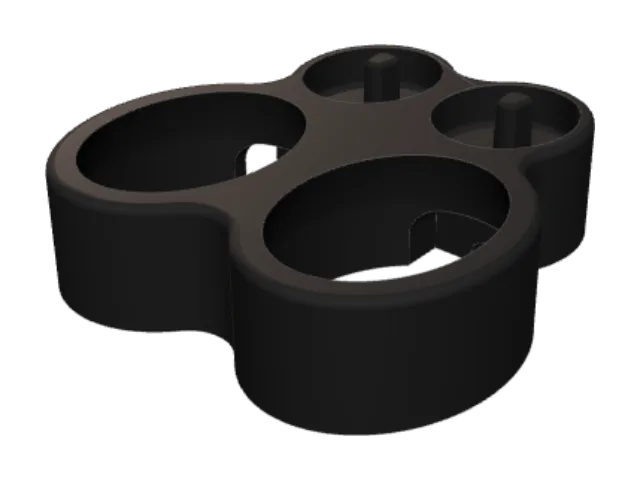
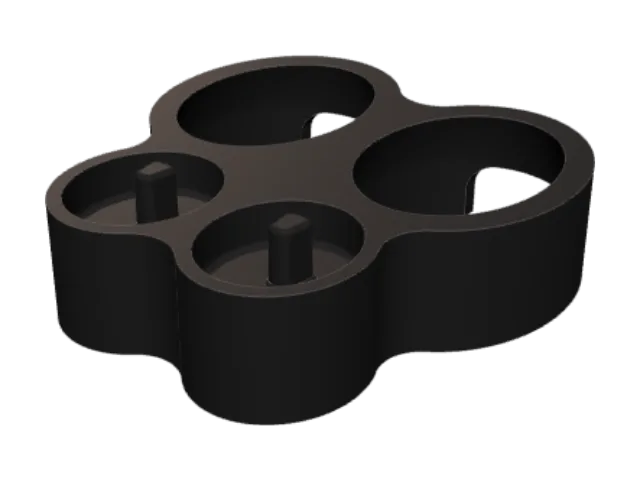
Station brosses à dents : supports de pose devant, chargeurs derrière ; dessus sans pli (#154)
Rangées inversées, câble directement par le bord arrière ; corps en prisme du contour (l'arrondi du dessus retournait des triangles, ligne visible sur l'aperçu).

Claude-Session: https://claude.ai/code/session_013t5AitiiN32HEYSz4SrLrU

Changed region(s): [[0.0625, 0.0938, 0.9375, 0.9062]]

diff --git a/assets/js/modeles/station-brosses-dents.js b/assets/js/modeles/station-brosses-dents.js
@@ -1,18 +1,18 @@
 /* Modèle 3D « station-brosses-dents » — chargé à la demande par viewer3d.js (voir EVARYSTH.viewer3d.define). */
-/* Socle à poser pour chargeurs ronds Oral-B (type 3757) : rangée avant de a logements de chargeur, rangée arrière de b
-   supports de pose (cuvette + picot), centrées, fondues en une pièce (cuvettes réunies par des raccords arrondis).
+/* Socle à poser pour chargeurs ronds Oral-B (type 3757) : rangée avant de b supports de pose (cuvette + picot), rangée
+   arrière de a logements de chargeur, centrées, fondues en une pièce (cuvettes réunies par des raccords arrondis).
    Cotes fonctionnelles reprises des STL « Oral-B toothbrush holder » (1 et 2 chargeurs) :
    - logement du chargeur, traversant (le chargeur repose sur le plan de travail) : ellipse 47,54 × 60,54 mm jusqu'à
      14,5 mm de haut, puis qui suit le galbe du chargeur jusqu'à 41,46 × 54,46 mm à 28,3 mm (haut du socle) ;
-   - sortie de câble à l'arrière du logement : 27 mm de large, 14 mm de haut, prolongée sous le socle par une gorge
-     de 8 × 6 mm jusqu'au bord arrière (le socle reste à plat, câble dessous) ;
+   - sortie de câble à l'arrière du logement : 27 mm de large, 14 mm de haut, ouverte sur le bord arrière (le câble
+     part à plat derrière le socle) ;
    - support de pose : cuvette elliptique 31,24 × 36 mm, 10 mm de profondeur (congé de 1,5 mm au fond), picot de
      6,98 × 8,76 mm (section en goutte, mesurée à mi-hauteur, dépouille de 1°, tête arrondie) qui dépasse de 13 mm du
      fond, décalé de 3 mm vers l'arrière.
    Les STL sont dessinés pour le PLA (jeu 0,2 mm, déjà compté) : logement et cuvette + (jeu − 0,2), picot − (jeu − 0,2).
-   Repère : Y vers le haut (dessous en y = 0), X la largeur, Z vers l'avant ; rangée des chargeurs en z = 0. */
+   Repère : Y vers le haut (dessous en y = 0), X la largeur, Z vers l'avant ; chargeurs en z = 0, supports en z = D. */
 (() => {
-  const H = 28.3, T = 3.2, ECART = 4, PC = 52, PS = 37, RACCORD = 10, ARRONDI = 2;   // ARRONDI : arête du dessus
+  const H = 28.3, T = 3.2, ECART = 4, PC = 52, PS = 37, RACCORD = 10;
   /* [y, demi-largeur] du logement (demi-longueur = + 6,5) ; relevés du STL à 16, 20, 26 et 28,3 mm à moins de 0,05 mm */
   const SOCLE = [[-1, 23.77], [14.5, 23.77], [18, 23.29], [22, 22.5], [25, 21.72], [27, 21.13], [H + 1, 20.42]];
   const LONG = 6.5, CUV = [15.62, 18.0], PROF = 10, CONGE = 1.5, PICOT = 13, DECALE = 3.0;
@@ -37,12 +37,12 @@
     for (const [x1, z1] of p1) for (const [x2, z2] of p2) d = Math.min(d, Math.hypot(x1 - x2, z1 - z2));
     return d;
   };
-  /* Disposition : chargeurs en z = 0, supports en z = −D (D minimal pour garder ECART entre logement et cuvette) */
+  /* Disposition : chargeurs en z = 0, supports devant en z = D (D minimal pour garder ECART entre logement et cuvette) */
   const disposition = (a, b, jeu) => {
     a = Math.round(a); b = Math.round(b);
     const dj = (jeu - 0.2) / 2, As = SOCLE[0][1] + dj, Bs = As + LONG, Ac = CUV[0] + dj, Bc = CUV[1] + dj;
     const xc = Array.from({ length: a }, (_, i) => (i - (a - 1) / 2) * PC), xs = Array.from({ length: b }, (_, j) => (j - (b - 1) / 2) * PS);
-    const ok = D => xc.every(x1 => xs.every(x2 => ecart([x1, 0, As, Bs], [x2, -D, Ac, Bc]) >= ECART));
+    const ok = D => xc.every(x1 => xs.every(x2 => ecart([x1, 0, As, Bs], [x2, D, Ac, Bc]) >= ECART));
     let lo = Bs, hi = Bs + Bc + ECART + 1;
     for (let i = 0; i < 20; i++) { const mid = (lo + hi) / 2; if (ok(mid)) hi = mid; else lo = mid; }
     return { xc, xs, D: Math.round(hi * 100) / 100, dj, As, Bs, Ac, Bc };
@@ -55,34 +55,15 @@
     const hull = pts => k.solid(Manifold.hull(pts)).mf;
     const anneau = (pts2, y, f) => pts2.map(([u, v]) => [...f(u, v), y]).map(([x, z, yy]) => [x, yy, z]);
 
-    /* Corps : union des empreintes (logements et cuvettes + paroi), raccords concaves, arête du dessus arrondie.
-       Contour décoratif : 96 segments par ellipse. Profil 2D en (x, −z) ; l'extrusion est posée par la rotation propre
-       (x, y, z) → (x, z, −y), chaque sommet du haut rentré le long de sa bissectrice (quart de rond de rayon ARRONDI). */
+    /* Corps : prisme de l'union des empreintes (logements et cuvettes + paroi), raccords concaves de RACCORD.
+       Contour décoratif : 96 segments par ellipse. Profil 2D en (x, −z), dressé par rotation de −90° autour de X. */
     const own = mf => k.solid(mf).mf;
-    const empreintes = [...xc.map(x => ell(x, 0, L.As + T, Bs + T, 96)), ...xs.map(x => ell(x, -D, Ac + T, Bc + T, 96))]
+    const empreintes = [...xc.map(x => ell(x, 0, L.As + T, Bs + T, 96)), ...xs.map(x => ell(x, D, Ac + T, Bc + T, 96))]
       .map(p => k.section(p.map(([x, z]) => [x, -z])).cs);
     const contour = k.conge(sec(CrossSection.union(empreintes)), RACCORD, { convexes: false });
-    const rentre = new Map(), cle = (x, y) => Math.round(x * 1e4) + "," + Math.round(y * 1e4);
-    for (const p of contour.polygons()) p.forEach(([x, y], i) => {
-      const [px, py] = p[(i + p.length - 1) % p.length], [nx, ny] = p[(i + 1) % p.length];
-      const l1 = Math.hypot(x - px, y - py) || 1, l2 = Math.hypot(nx - x, ny - y) || 1;
-      const n1 = [-(y - py) / l1, (x - px) / l1], n2 = [-(ny - y) / l2, (nx - x) / l2];
-      const bx = n1[0] + n2[0], by = n1[1] + n2[1], c = (bx * n1[0] + by * n1[1]) / (Math.hypot(bx, by) || 1);
-      const f = 1 / (Math.hypot(bx, by) || 1) / Math.max(c, 0.5);
-      rentre.set(cle(x, y), [bx * f, by * f]);
-    });
-    const niv = [[0, 0], [H - ARRONDI, 0], ...Array.from({ length: 4 }, (_, i) => {
-      const p = (i + 1) / 4 * Math.PI / 2;
-      return [H - ARRONDI + ARRONDI * Math.sin(p), ARRONDI * (1 - Math.cos(p))];
-    })];
-    const corps = own(own(contour.cs.extrude(niv.length - 1, niv.length - 2, 0, [1, 1], false)).warpBatch((v, count) => {
-      for (let i = 0; i < count; i++) {
-        const x = v[3 * i], y = v[3 * i + 1], [h, o] = niv[Math.round(v[3 * i + 2])], d = rentre.get(cle(x, y)) || [0, 0];
-        v[3 * i] = x + d[0] * o; v[3 * i + 1] = h; v[3 * i + 2] = -(y + d[1] * o);
-      }
-    }));
+    const corps = own(contour.cs.extrude(H, 0, 0, [1, 1], false).rotate([-90, 0, 0]));
 
-    /* Creux : logements (enveloppe convexe des sections du galbe), sortie de câble, gorge, cuvettes */
+    /* Creux : logements (enveloppe convexe des sections du galbe), sortie de câble vers l'arrière, cuvettes */
     const creux = [];
     for (const x of xc) {
       creux.push(hull(SOCLE.flatMap(([y, A]) => anneau(ell(0, 0, A + dj, A + dj + LONG), y, (u, v) => [x + u, v]))));
@@ -93,13 +74,8 @@
         const t = Math.PI / 2 + i / 8 * Math.PI / 2;
         return [-13.5 + r + r * Math.cos(t), 14 - r + r * Math.sin(t)];
       })];
-      const Ls = Bs + T + 1.5, Lg = D + Bc + T + 12;
+      const Ls = Bs + T + 15;
       creux.push(k.ext(sortie, Ls).translate(x, 0, -Ls / 2).mf);
-      const gorge = [[-4, -1], [4, -1], ...Array.from({ length: 17 }, (_, i) => {
-        const t = i / 16 * Math.PI;
-        return [4 * Math.cos(t), 2 + 4 * Math.sin(t)];
-      })];
-      creux.push(k.ext(gorge, Lg).translate(x, 0, -Lg / 2).mf);
     }
     const fond = H - PROF;
     for (const x of xs) {
@@ -108,7 +84,7 @@
         return [fond + CONGE * (1 - Math.cos(p)), -CONGE + CONGE * Math.sin(p)];
       });
       niv.push([H + 1, 0]);
-      creux.push(hull(niv.flatMap(([y, o]) => anneau(ell(0, 0, Ac + o, Bc + o), y, (u, v) => [x + u, -D + v]))));
+      creux.push(hull(niv.flatMap(([y, o]) => anneau(ell(0, 0, Ac + o, Bc + o), y, (u, v) => [x + u, D + v]))));
     }
 
     /* Picots : section relevée, dépouille, tête arrondie (r 1,2), petit congé au pied */
@@ -117,7 +93,7 @@
     const dAt = t => dp + DEPOUILLE * (MI - t);
     const picots = [];
     for (const x of xs) {
-      const pose = (u, v) => [x + u, -D - DECALE - v];
+      const pose = (u, v) => [x + u, D - DECALE - v];
       const niv = [[-0.5, dAt(0)], [0, dAt(0)], [tete, dAt(tete)],
         ...Array.from({ length: 6 }, (_, i) => {
           const p = (i + 1) / 6 * Math.PI / 2;
@@ -132,14 +108,14 @@
     return k.join(k.solid(piece));
   }), {
     solides: 1,
-    /* Repère de construction : dessous en y = 0, logements en z = 0 (x = xc), supports en z = −D (x = xs) */
+    /* Repère de construction : dessous en y = 0, logements en z = 0 (x = xc), supports en z = D (x = xs) */
     cotes: ({ a, b, jeu }) => {
       const { xc, xs, D } = disposition(a, b, jeu), j = jeu - 0.2;
       return [
         { nom: "logement du chargeur, largeur à la base (+ jeu)", axe: "y", en: [xc[0], 7, 0], mesure: "largeur", selon: "x", attendu: 47.54 + j },
         { nom: "logement du chargeur, longueur à 22 mm (+ jeu)", axe: "y", en: [xc[0], 22, 0], mesure: "largeur", selon: "z", attendu: 58.0 + j },
-        { nom: "picot de pose, largeur (− jeu)", axe: "y", en: [xs[0], H - PROF + MI, -D - DECALE - 2.35], mesure: "largeur", selon: "x", attendu: 6.98 - j },
-        { nom: "picot de pose, longueur (− jeu)", axe: "y", en: [xs[0], H - PROF + MI, -D - DECALE], mesure: "largeur", selon: "z", attendu: 8.76 - j }];
+        { nom: "picot de pose, largeur (− jeu)", axe: "y", en: [xs[0], H - PROF + MI, D - DECALE - 2.35], mesure: "largeur", selon: "x", attendu: 6.98 - j },
+        { nom: "picot de pose, longueur (− jeu)", axe: "y", en: [xs[0], H - PROF + MI, D - DECALE], mesure: "largeur", selon: "z", attendu: 8.76 - j }];
     }
   });
 })();

diff --git a/produits/station-brosses-dents/index.html b/produits/station-brosses-dents/index.html
@@ -11,13 +11,13 @@
   <link rel="apple-touch-icon" href="/assets/icons/apple-touch-icon.png">
   <meta name="theme-color" content="#F4F1EA">
   <title>Evarysth</title>
-  <meta name="description" content="Le chargeur bien calé, les autres brosses debout juste derrière. Dès 14 €, en taille standard ou à vos cotes.">
+  <meta name="description" content="Les brosses debout devant, le chargeur bien calé juste derrière. Dès 14 €, en taille standard ou à vos cotes.">
   <link rel="canonical" href="https://evarysth.fr/produits/station-brosses-dents/">
   <meta property="og:type" content="product">
   <meta property="og:site_name" content="Evarysth">
   <meta property="og:locale" content="fr_FR">
   <meta property="og:title" content="Station brosses à dents — Evarysth">
-  <meta property="og:description" content="Le chargeur bien calé, les autres brosses debout juste derrière. Dès 14 €, sur-mesure possible.">
+  <meta property="og:description" content="Les brosses debout devant, le chargeur bien calé juste derrière. Dès 14 €, sur-mesure possible.">
   <meta property="og:url" content="https://evarysth.fr/produits/station-brosses-dents/">
   <meta property="og:image" content="https://evarysth.fr/assets/og/station-brosses-dents.jpg">
   <meta property="og:image:width" content="1200">
@@ -26,7 +26,7 @@
   <meta property="product:price:amount" content="14.00">
   <meta property="product:price:currency" content="EUR">
   <meta name="twitter:card" content="summary_large_image">
-  <script type="application/ld+json">[{"@context":"https://schema.org","@type":"Product","name":"Station brosses à dents","description":"Le chargeur bien calé, les autres brosses debout juste derrière. Un socle à poser près du lavabo, compatible chargeurs Oral-B ronds (type 3757, gammes Pro et Vitality ; pas les chargeurs iO). À l'avant, chaque chargeur s'emboîte dans son logement, posé sur le plan de travail, et son câble file par une encoche puis une gorge sous le socle : la station reste bien à plat. À l'arrière, une cuvette et un picot gardent debout chaque brosse qui attend son tour. Choisissez le nombre de chargeurs et de supports de pose. Produit indépendant, non affilié à Oral-B ; chargeurs et brosses non fournis.","sku":"station-brosses-dents","category":"Meubles & Rangement","image":["https://evarysth.fr/assets/og/station-brosses-dents.jpg"],"brand":{"@type":"Brand","name":"Evarysth"},"offers":{"@type":"AggregateOffer","url":"https://evarysth.fr/produits/station-brosses-dents/","priceCurrency":"EUR","offerCount":3,"lowPrice":"14.00","highPrice":"20.00"}},{"@context":"https://schema.org","@type":"BreadcrumbList","itemListElement":[{"@type":"ListItem","position":1,"name":"Catalogue","item":"https://evarysth.fr/catalogue/"},{"@type":"ListItem","position":2,"name":"Meubles & Rangement","item":"https://evarysth.fr/univers/meubles/"},{"@type":"ListItem","position":3,"name":"Station brosses à dents","item":"https://evarysth.fr/produits/station-brosses-dents/"}]}]</script>
+  <script type="application/ld+json">[{"@context":"https://schema.org","@type":"Product","name":"Station brosses à dents","description":"Les brosses debout devant, le chargeur bien calé juste derrière. Un socle à poser près du lavabo, compatible chargeurs Oral-B ronds (type 3757, gammes Pro et Vitality ; pas les chargeurs iO). À l'avant, une cuvette et un picot gardent debout chaque brosse, à portée de main. À l'arrière, chaque chargeur s'emboîte dans son logement, posé sur le plan de travail, et son câble sort par une encoche à l'arrière : la station reste bien à plat. Pour recharger une brosse, posez-la derrière. Choisissez le nombre de chargeurs et de supports de pose. Produit indépendant, non affilié à Oral-B ; chargeurs et brosses non fournis.","sku":"station-brosses-dents","category":"Meubles & Rangement","image":["https://evarysth.fr/assets/og/station-brosses-dents.jpg"],"brand":{"@type":"Brand","name":"Evarysth"},"offers":{"@type":"AggregateOffer","url":"https://evarysth.fr/produits/station-brosses-dents/","priceCurrency":"EUR","offerCount":3,"lowPrice":"14.00","highPrice":"20.00"}},{"@context":"https://schema.org","@type":"BreadcrumbList","itemListElement":[{"@type":"ListItem","position":1,"name":"Catalogue","item":"https://evarysth.fr/catalogue/"},{"@type":"ListItem","position":2,"name":"Meubles & Rangement","item":"https://evarysth.fr/univers/meubles/"},{"@type":"ListItem","position":3,"name":"Station brosses à dents","item":"https://evarysth.fr/produits/station-brosses-dents/"}]}]</script>
   <link rel="preconnect" href="https://fonts.googleapis.com">
   <link rel="preconnect" href="https://fonts.gstatic.com" crossorigin>
   <link href="https://fonts.googleapis.com/css2?family=Bricolage+Grotesque:opsz,wght@12..96,600;12..96,700;12..96,800&family=Inter:wght@400;500;600;700&family=JetBrains+Mono:wght@400;500&display=swap" rel="stylesheet">
@@ -86,8 +86,8 @@
     <nav class="crumbs" aria-label="Fil d'Ariane"><a href="catalogue/">Catalogue</a> / <a href="univers/meubles/">Meubles &amp; Rangement</a> / <span>Station brosses à dents</span></nav>
     <article class="pdp-static">
       <h1>Station brosses à dents</h1>
-      <p>Le chargeur bien calé, les autres brosses debout juste derrière.</p>
-      <p>Un socle à poser près du lavabo, compatible chargeurs Oral-B ronds (type 3757, gammes Pro et Vitality ; pas les chargeurs iO). À l'avant, chaque chargeur s'emboîte dans son logement, posé sur le plan de travail, et son câble file par une encoche puis une gorge sous le socle : la station reste bien à plat. À l'arrière, une cuvette et un picot gardent debout chaque brosse qui attend son tour. Choisissez le nombre de chargeurs et de supports de pose. Produit indépendant, non affilié à Oral-B ; chargeurs et brosses non fournis.</p>
+      <p>Les brosses debout devant, le chargeur bien calé juste derrière.</p>
+      <p>Un socle à poser près du lavabo, compatible chargeurs Oral-B ronds (type 3757, gammes Pro et Vitality ; pas les chargeurs iO). À l'avant, une cuvette et un picot gardent debout chaque brosse, à portée de main. À l'arrière, chaque chargeur s'emboîte dans son logement, posé sur le plan de travail, et son câble sort par une encoche à l'arrière : la station reste bien à plat. Pour recharger une brosse, posez-la derrière. Choisissez le nombre de chargeurs et de supports de pose. Produit indépendant, non affilié à Oral-B ; chargeurs et brosses non fournis.</p>
       <p>Dès 14 €. En taille standard (configuration : Solo 1 chargeur, 1 support, Duo 2 chargeurs, 2 supports, Famille 2 chargeurs, 4 supports), ou sur-mesure à vos cotes.</p>
       
       <noscript><p>Activez JavaScript pour voir la pièce en 3D, régler vos cotes et commander.</p></noscript>

diff --git a/catalogue/index.html b/catalogue/index.html
@@ -88,7 +88,7 @@
     <div id="catalogue-root">
      <section class="row-block"><h2><a href="univers/balcon/">Balcon &amp; Extérieur</a></h2><p>Tout se clipse sur votre garde-corps. Zéro trou, zéro souci avec le propriétaire.</p><ul class="list-static"><li><a href="produits/crochet-balcon/">Crochet de balcon</a> — Pour suspendre lanterne, plante ou serviette. <span>Dès 13 €</span></li><li><a href="produits/tablette-rambarde/">Tablette café de balcon</a> — Une petite table pour le café, posée sur la rambarde. <span>Dès 23 €</span></li></ul></section>
      <section class="row-block"><h2><a href="univers/bureau/">Bureau, Tech &amp; Auto</a></h2><p>Câbles, casques, affaires de voiture : chaque chose à sa place, à portée de main.</p><ul class="list-static"><li><a href="produits/passe-cable/">Passe-câble de bureau</a> — Un trou propre pour faire passer les câbles. <span>Dès 12 €</span></li><li><a href="produits/crochet-appui-tete/">Crochet d'appui-tête multifonction</a> — La tablette, le sac et la gourde rangés derrière le siège avant. <span>Dès 17 €</span></li><li><a href="produits/crochet-appui-tete-double/">Crochet d'appui-tête à deux tiges</a> — Se pose sur les deux tiges, sans sortir l'appui-tête. <span>Dès 17 €</span></li><li><a href="produits/support-casque-treillis/">Support casque Treillis</a> — Un vrai présentoir pour votre casque, léger comme une dentelle. <span>Dès 42 €</span></li></ul></section>
-     <section class="row-block"><h2><a href="univers/meubles/">Meubles &amp; Rangement</a></h2><p>Les petites pièces qui manquaient à vos meubles du commerce.</p><ul class="list-static"><li><a href="produits/boite-rugged/">Boîte robuste à loquets</a> — Une boîte qui encaisse les chocs, aux dimensions de ce que vous rangez. <span>Dès 21 €</span></li><li><a href="produits/organiseur-tiroir/">Organiseur de tiroir</a> — Un casier qui épouse exactement votre tiroir. <span>Dès 26 €</span></li><li><a href="produits/vide-poche-cles/">Vide-poche porte-clés</a> — Les clés accrochées, la monnaie dans le bac, dès l'entrée. <span>Dès 15 €</span></li><li><a href="produits/distributeur-cotons/">Distributeur cotons &amp; cotons-tiges</a> — Les disques à portée de main, les cotons-tiges juste à côté. <span>Dès 19 €</span></li><li><a href="produits/station-brosses-dents/">Station brosses à dents</a> — Le chargeur bien calé, les autres brosses debout juste derrière. <span>Dès 14 €</span></li><li><a href="produits/distributeur-oeufs/">Distributeur d'œufs à deux étages</a> — Le plus ancien sort en premier, sans y penser. <span>Dès 25 €</span></li><li><a href="produits/distributeur-oeufs-boucle/">Distributeur d'œufs en boucle</a> — La forme d'origine, avec ses berceaux galbés. <span>Dès 27 €</span></li><li><a href="produits/cintre-sac/">Cintre à sac pour tringle</a> — Le sac à dos rangé dans la penderie, comme une veste. <span>Dès 14 €</span></li><li><a href="produits/pince-sac-verseur/">Pince à sac avec bec verseur</a> — Le paquet de café refermé, et un bec pour verser sans en mettre partout. <span>Dès 15 €</span></li><li><a href="produits/support-aerosol-skadis/">Support de bombe pour SKADIS</a> — La bombe aérosol rangée debout sur le panneau perforé, toujours à portée de main. <span>Dès 15 €</span></li><li><a href="produits/support-accessoires-aspirateur/">Support mural d'accessoires d'aspirateur</a> — Les embouts de l'aspirateur balai rangés au mur, prêts à être clipsés. <span>Dès 19 €</span></li></ul></section>
+     <section class="row-block"><h2><a href="univers/meubles/">Meubles &amp; Rangement</a></h2><p>Les petites pièces qui manquaient à vos meubles du commerce.</p><ul class="list-static"><li><a href="produits/boite-rugged/">Boîte robuste à loquets</a> — Une boîte qui encaisse les chocs, aux dimensions de ce que vous rangez. <span>Dès 21 €</span></li><li><a href="produits/organiseur-tiroir/">Organiseur de tiroir</a> — Un casier qui épouse exactement votre tiroir. <span>Dès 26 €</span></li><li><a href="produits/vide-poche-cles/">Vide-poche porte-clés</a> — Les clés accrochées, la monnaie dans le bac, dès l'entrée. <span>Dès 15 €</span></li><li><a href="produits/distributeur-cotons/">Distributeur cotons &amp; cotons-tiges</a> — Les disques à portée de main, les cotons-tiges juste à côté. <span>Dès 19 €</span></li><li><a href="produits/station-brosses-dents/">Station brosses à dents</a> — Les brosses debout devant, le chargeur bien calé juste derrière. <span>Dès 14 €</span></li><li><a href="produits/distributeur-oeufs/">Distributeur d'œufs à deux étages</a> — Le plus ancien sort en premier, sans y penser. <span>Dès 25 €</span></li><li><a href="produits/distributeur-oeufs-boucle/">Distributeur d'œufs en boucle</a> — La forme d'origine, avec ses berceaux galbés. <span>Dès 27 €</span></li><li><a href="produits/cintre-sac/">Cintre à sac pour tringle</a> — Le sac à dos rangé dans la penderie, comme une veste. <span>Dès 14 €</span></li><li><a href="produits/pince-sac-verseur/">Pince à sac avec bec verseur</a> — Le paquet de café refermé, et un bec pour verser sans en mettre partout. <span>Dès 15 €</span></li><li><a href="produits/support-aerosol-skadis/">Support de bombe pour SKADIS</a> — La bombe aérosol rangée debout sur le panneau perforé, toujours à portée de main. <span>Dès 15 €</span></li><li><a href="produits/support-accessoires-aspirateur/">Support mural d'accessoires d'aspirateur</a> — Les embouts de l'aspirateur balai rangés au mur, prêts à être clipsés. <span>Dès 19 €</span></li></ul></section>
      <section class="row-block"><h2><a href="univers/deco/">Déco &amp; Objets</a></h2><p>Des pièces à exposer, imprimées à la taille de votre étagère.</p><ul class="list-static"><li><a href="produits/chat-lord/">Chat Lord</a> — Un buste de chat couronné de lauriers, drapé à l'antique. <span>Dès 16 €</span></li><li><a href="produits/duo-plage/">Duo de plage</a> — Deux silhouettes main dans la main, prêtes pour la mise à l'eau. <span>Dès 20 €</span></li><li><a href="produits/carapuce/">Carapuce</a> — La petite tortue la plus effrontée de l'étagère. <span>Dès 15 €</span></li><li><a href="produits/voiture-voronoi/">Voiture Voronoï</a> — Une sportive à aileron, toute en dentelle de plastique. <span>Dès 16 €</span></li></ul></section>
     </div>
    </div>

diff --git a/univers/meubles/index.html b/univers/meubles/index.html
@@ -86,7 +86,7 @@
       <h1>Meubles &amp; Rangement <em>malins</em></h1>
       <p>Les petites pièces qui manquaient à vos meubles du commerce.</p>
     </header>
-    <ul class="list-static"><li><a href="produits/boite-rugged/">Boîte robuste à loquets</a> — Une boîte qui encaisse les chocs, aux dimensions de ce que vous rangez. <span>Dès 21 €</span></li><li><a href="produits/organiseur-tiroir/">Organiseur de tiroir</a> — Un casier qui épouse exactement votre tiroir. <span>Dès 26 €</span></li><li><a href="produits/vide-poche-cles/">Vide-poche porte-clés</a> — Les clés accrochées, la monnaie dans le bac, dès l'entrée. <span>Dès 15 €</span></li><li><a href="produits/distributeur-cotons/">Distributeur cotons &amp; cotons-tiges</a> — Les disques à portée de main, les cotons-tiges juste à côté. <span>Dès 19 €</span></li><li><a href="produits/station-brosses-dents/">Station brosses à dents</a> — Le chargeur bien calé, les autres brosses debout juste derrière. <span>Dès 14 €</span></li><li><a href="produits/distributeur-oeufs/">Distributeur d'œufs à deux étages</a> — Le plus ancien sort en premier, sans y penser. <span>Dès 25 €</span></li><li><a href="produits/distributeur-oeufs-boucle/">Distributeur d'œufs en boucle</a> — La forme d'origine, avec ses berceaux galbés. <span>Dès 27 €</span></li><li><a href="produits/cintre-sac/">Cintre à sac pour tringle</a> — Le sac à dos rangé dans la penderie, comme une veste. <span>Dès 14 €</span></li><li><a href="produits/pince-sac-verseur/">Pince à sac avec bec verseur</a> — Le paquet de café refermé, et un bec pour verser sans en mettre partout. <span>Dès 15 €</span></li><li><a href="produits/support-aerosol-skadis/">Support de bombe pour SKADIS</a> — La bombe aérosol rangée debout sur le panneau perforé, toujours à portée de main. <span>Dès 15 €</span></li><li><a href="produits/support-accessoires-aspirateur/">Support mural d'accessoires d'aspirateur</a> — Les embouts de l'aspirateur balai rangés au mur, prêts à être clipsés. <span>Dès 19 €</span></li></ul>
+    <ul class="list-static"><li><a href="produits/boite-rugged/">Boîte robuste à loquets</a> — Une boîte qui encaisse les chocs, aux dimensions de ce que vous rangez. <span>Dès 21 €</span></li><li><a href="produits/organiseur-tiroir/">Organiseur de tiroir</a> — Un casier qui épouse exactement votre tiroir. <span>Dès 26 €</span></li><li><a href="produits/vide-poche-cles/">Vide-poche porte-clés</a> — Les clés accrochées, la monnaie dans le bac, dès l'entrée. <span>Dès 15 €</span></li><li><a href="produits/distributeur-cotons/">Distributeur cotons &amp; cotons-tiges</a> — Les disques à portée de main, les cotons-tiges juste à côté. <span>Dès 19 €</span></li><li><a href="produits/station-brosses-dents/">Station brosses à dents</a> — Les brosses debout devant, le chargeur bien calé juste derrière. <span>Dès 14 €</span></li><li><a href="produits/distributeur-oeufs/">Distributeur d'œufs à deux étages</a> — Le plus ancien sort en premier, sans y penser. <span>Dès 25 €</span></li><li><a href="produits/distributeur-oeufs-boucle/">Distributeur d'œufs en boucle</a> — La forme d'origine, avec ses berceaux galbés. <span>Dès 27 €</span></li><li><a href="produits/cintre-sac/">Cintre à sac pour tringle</a> — Le sac à dos rangé dans la penderie, comme une veste. <span>Dès 14 €</span></li><li><a href="produits/pince-sac-verseur/">Pince à sac avec bec verseur</a> — Le paquet de café refermé, et un bec pour verser sans en mettre partout. <span>Dès 15 €</span></li><li><a href="produits/support-aerosol-skadis/">Support de bombe pour SKADIS</a> — La bombe aérosol rangée debout sur le panneau perforé, toujours à portée de main. <span>Dès 15 €</span></li><li><a href="produits/support-accessoires-aspirateur/">Support mural d'accessoires d'aspirateur</a> — Les embouts de l'aspirateur balai rangés au mur, prêts à être clipsés. <span>Dès 19 €</span></li></ul>
    </div>
   </main>
   <section class="reassure">

diff --git a/assets/js/bareme.js b/assets/js/bareme.js
@@ -16,7 +16,7 @@ EVARYSTH.bareme = {
     "organiseur-tiroir": {"empreinte":"3d11879e05008d54","matiere":"petg","profil":"petg","bambu_studio":"02.08.02.61","axes":{"a":[120,220,320,380,440,500,560],"b":[150,220,285,355,420,490,560]},"points":[[99.7,11507],[132.54,14810],[175.57,19752],[217.69,24308],[258.9,30108],[288.79,32004],[345.17,40030],[152.56,16869],[197.87,21703],[263.89,29661],[326.31,36471],[389.47,43599],[427.98,46644],[519.27,58366],[231.43,26297],[301.57,33449],[401.5,45231],[497.06,55583],[592.32,68507],[654.01,72449],[789.69,91213],[280.77,32202],[367.17,41688],[488.46,57124],[605.3,68881],[721.82,83826],[797.24,89862],[962.32,111968],[305.02,33755],[395.59,43415],[527.57,59250],[652.39,72558],[778.72,87261],[855.69,93501],[1038.24,116623],[337.03,36958],[435.15,47396],[580.27,64501],[718.39,79316],[857.8,95572],[940.36,101661],[1143.61,126761],[394.13,44131],[512.07,57387],[682.24,77677],[844.05,94812],[1007.54,113647],[1108.83,121153],[1343.29,150389]]},
     "vide-poche-cles": {"empreinte":"8a8f469359fb38fe","matiere":"pla","profil":"pla","bambu_studio":"02.08.02.61","axes":{"a":[60,75,130,180],"b":[55,75,120],"c":[100,120,180]},"points":[[26.25,4065],[28.69,4150],[36.36,4935],[29.3,4250],[32.38,4581],[39.89,5448],[36.92,5135],[40.27,5416],[48.02,6429],[32.52,4912],[35.56,4988],[45.1,5966],[36.15,5097],[39.98,5513],[49.31,6587],[45.24,6141],[49.4,6527],[59.05,7742],[54.48,7856],[59.68,7932],[76.11,9622],[60.25,8088],[66.8,8798],[82.85,10600],[74.73,9642],[81.85,10337],[98.45,12415],[75.15,10668],[82.34,10738],[105.02,13003],[82.88,10909],[91.92,11890],[114.06,14402],[102.26,13044],[112.09,13972],[135.01,16853]]},
     "distributeur-cotons": {"empreinte":"17c116b2f7ab83ce","matiere":"petg","profil":"petg","bambu_studio":"02.08.02.61","axes":{"a":[45,58,75],"b":[100,150,200],"c":[35,50,70]},"points":[[43.94,8444],[47.32,8605],[51.82,8865],[58.51,11798],[61.89,12046],[66.39,12249],[73.09,15279],[76.46,15469],[80.96,15635],[52.85,8806],[56.14,9024],[60.54,9276],[70.83,12237],[74.13,12439],[78.53,12745],[88.81,15733],[92.11,15932],[96.5,16143],[65.46,9715],[68.76,9997],[73.17,10382],[87.96,13304],[91.26,13578],[95.66,13974],[110.46,16895],[113.76,17183],[118.17,17558]]},
-    "station-brosses-dents": {"empreinte":"91b5038cc9a11790","matiere":"petg","profil":"petg","bambu_studio":"02.08.02.61","axes":{"a":[1,2],"b":[1,2,3,4]},"points":[[19.04,3278],[26.74,4135],[37.46,5440],[44.09,6347],[27.22,4249],[37.46,5703],[45.31,6562],[55.14,7867]]},
+    "station-brosses-dents": {"empreinte":"be22c5ab0b1e72a5","matiere":"petg","profil":"petg","bambu_studio":"02.08.02.61","axes":{"a":[1,2],"b":[1,2,3,4]},"points":[[18.94,3083],[26.43,3971],[37.18,5216],[43.83,6157],[26.95,4151],[36.91,5327],[44.43,6153],[54.26,7432]]},
     "distributeur-oeufs": {"empreinte":"2f5180c318e834c2","matiere":"petg","profil":"petg","bambu_studio":"02.08.02.61","axes":{"a":[50,55,60,68],"b":[180,200,220,250]},"points":[[80.1,12916],[87.62,13979],[96.22,15169],[108.61,16869],[87.7,14080],[95.9,15091],[105.05,16357],[118.3,18015],[100.79,15490],[109.96,16814],[120.18,18121],[135.13,19995],[114.6,17296],[125.77,18835],[136.97,20395],[153.24,22339]]},
     "distributeur-oeufs-boucle": {"empreinte":"ff78241988490f8c","matiere":"petg","profil":"petg","bambu_studio":"02.08.02.61","axes":{"a":[210,226,242,274,280]},"points":[[93.83,15320],[101.31,16484],[108.98,17486],[123.92,19688],[126.39,20047]]},
     "cintre-sac": {"empreinte":"6b52ac4a3a371e48","matiere":"petg","profil":"petg","bambu_studio":"02.08.02.61","axes":{"a":[15,20,25,33,40]},"points":[[14.13,3811],[14.91,3935],[16.24,4006],[18.02,4029],[19.61,4169]]},

diff --git a/assets/js/data.js b/assets/js/data.js
@@ -301,15 +301,15 @@ EVARYSTH.products = [
   {
     id: "station-brosses-dents", universe: "meubles", matiere: "petg", shape: "toothbrush", model: "station-brosses-dents",
     name: "Station brosses à dents",
-    tagline: "Le chargeur bien calé, les autres brosses debout juste derrière.",
-    desc: "Un socle à poser près du lavabo, compatible chargeurs Oral-B ronds (type 3757, gammes Pro et Vitality ; pas les chargeurs iO). À l'avant, chaque chargeur s'emboîte dans son logement, posé sur le plan de travail, et son câble file par une encoche puis une gorge sous le socle : la station reste bien à plat. À l'arrière, une cuvette et un picot gardent debout chaque brosse qui attend son tour. Choisissez le nombre de chargeurs et de supports de pose. Produit indépendant, non affilié à Oral-B ; chargeurs et brosses non fournis.",
+    tagline: "Les brosses debout devant, le chargeur bien calé juste derrière.",
+    desc: "Un socle à poser près du lavabo, compatible chargeurs Oral-B ronds (type 3757, gammes Pro et Vitality ; pas les chargeurs iO). À l'avant, une cuvette et un picot gardent debout chaque brosse, à portée de main. À l'arrière, chaque chargeur s'emboîte dans son logement, posé sur le plan de travail, et son câble sort par une encoche à l'arrière : la station reste bien à plat. Pour recharger une brosse, posez-la derrière. Choisissez le nombre de chargeurs et de supports de pose. Produit indépendant, non affilié à Oral-B ; chargeurs et brosses non fournis.",
     variants: sizes("Configuration", [["Solo", "1 chargeur, 1 support", { a: 1, b: 1 }], ["Duo", "2 chargeurs, 2 supports", { a: 2, b: 2 }], ["Famille", "2 chargeurs, 4 supports", { a: 2, b: 4 }]]),
     colors: [
       { id: "noir", label: "Noir mat", hex: "#2a2a2a" },
       { id: "blanc", label: "Blanc", hex: "#ecebe6", roughness: 0.6 }
     ],
     impression: { matiere: "petg", orientation: POSE.debout, supports: false, parPlateau: 4,
-      remarques: "À plat sur son dessous : logements traversants, cuvettes ouvertes vers le haut ; sortie de câble et gorge en pont." },
+      remarques: "À plat sur son dessous : logements traversants, cuvettes ouvertes vers le haut ; sortie de câble en pont." },
     custom: { params: [
       { ...param("a", "Chargeurs", 1, 2, 1), type: "compte", unite: ["chargeur", "chargeurs"] },
       { ...param("b", "Supports de pose", 1, 4, 2), type: "compte", unite: ["support de pose", "supports de pose"] }
